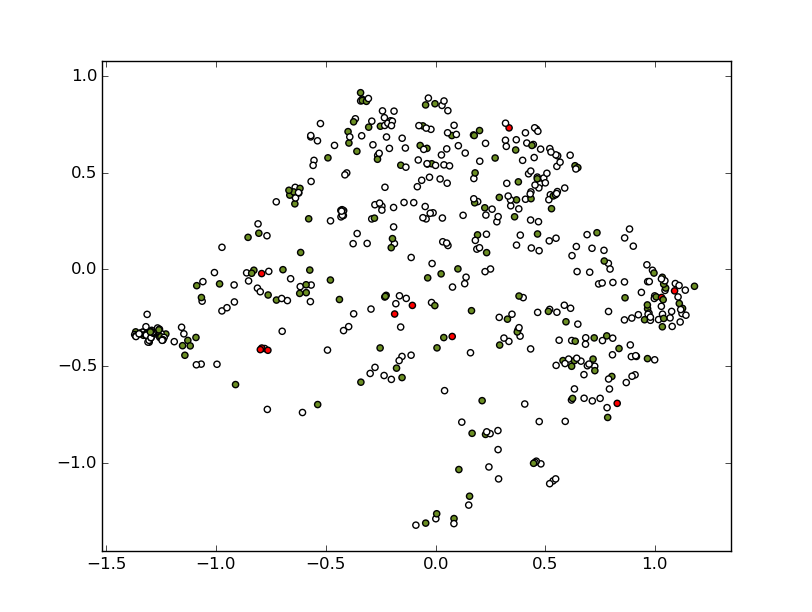
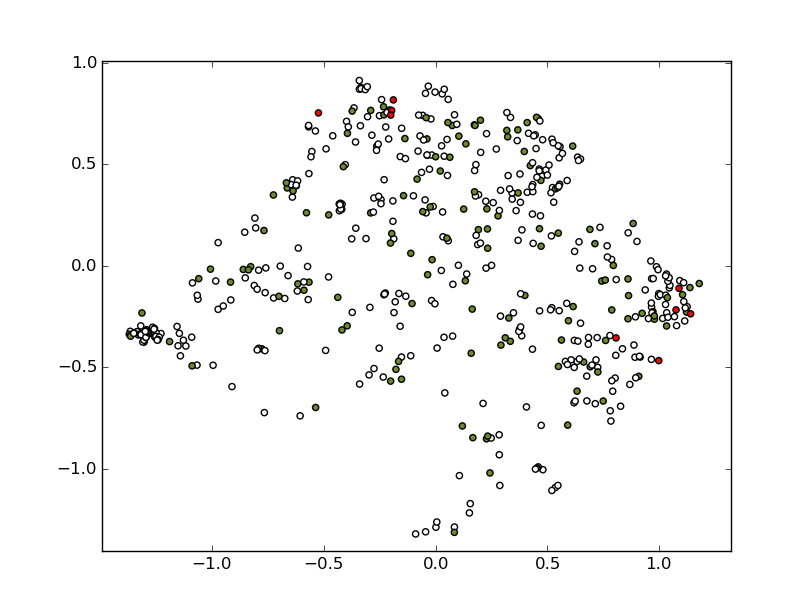
Now plotting the correct mispredictions

diff --git a/training/training.py b/training/training.py
@@ -64,20 +64,25 @@ class Knn:
     print('Split Validation training :: Done.\n')
 
 
-  def splitValidateModel(self):
+  def splitValidateModel(self, visualizePredictions = False):
     (label_vector, input_vector) = loadData(self.featureFile)
 
-    trainData, testData, trainLabels, testLabels = cross_validation.train_test_split(input_vector, 
-          label_vector, test_size=(1.0 - self.percentSplit))
+
+    indexArray = range(0, len(input_vector))
+    trainData, testData, trainLabels, expectedLabels, trainIndices, testIndices = \
+      cross_validation.train_test_split(input_vector, label_vector, indexArray, test_size=(1.0 - self.percentSplit))
 
     kNNClassifier = neighbors.KNeighborsClassifier(self.n_neighbors, weights='distance')
     kNNClassifier.fit(trainData, trainLabels) 
     predictedLabels = kNNClassifier.predict(testData)
     
     print("Classification report for classifier %s:\n%s\n"
-          % ('k-NearestNeighbour', metrics.classification_report(testLabels, predictedLabels)))
-    print("Confusion matrix:\n%s" % metrics.confusion_matrix(testLabels, predictedLabels))
+          % ('k-NearestNeighbour', metrics.classification_report(expectedLabels, predictedLabels)))
+    print("Confusion matrix:\n%s" % metrics.confusion_matrix(expectedLabels, predictedLabels))
     print('Split Validation training :: Done.\n')
+
+    if visualizePredictions:
+      self.visualizePredictedDataset(input_vector, testIndices, predictedLabels, expectedLabels)
 
 
   def crossValidateModel(self):
@@ -114,28 +119,19 @@ class Knn:
       print "Plot saved as " + fileName + ".png"
 
 
-  def visualizePredictedDataset(self, featureData = '', fileName = ''):
-    if featureData == '':
-      (label_vector, input_vector) = loadData(self.featureFile)
-    else:
-      (label_vector, input_vector) = loadData(featureData)
-    indexArray = range(0, len(input_vector))
-
-    trainData, testData, trainLabels, expectedLabels, trainIndices, testIndices = \
-      cross_validation.train_test_split(input_vector, label_vector, indexArray, test_size=(1.0 - self.percentSplit))
-    
-    kNNClassifier = neighbors.KNeighborsClassifier(self.n_neighbors, weights='distance')
-    kNNClassifier.fit(trainData, trainLabels) 
-    predictedLabels = kNNClassifier.predict(testData)
+  def visualizePredictedDataset(self, data, testIndices, predictedLabels, expectedLabels):
+    #kNNClassifier = neighbors.KNeighborsClassifier(self.n_neighbors, weights='distance')
+    #kNNClassifier.fit(trainData, trainLabels)
+    #predictedLabels = kNNClassifier.predict(testData)
 
     pca = PCA(n_components = 2)
-    X_trans = pca.fit_transform(input_vector)
+    X_trans = pca.fit_transform(data)
 
     plt.figure()
     colorArray = []
 
     print("----- Wrong predictions -----")
-    for n in range(0, len(input_vector)):
+    for n in range(0, len(data)):
       if n in testIndices:
         if predictedLabels[testIndices.index(n)] != expectedLabels[testIndices.index(n)]:
           #colorArray.append(COLOR_MAP[predictedLabels[testIndices.index(n)]])
@@ -148,11 +144,7 @@ class Knn:
         colorArray.append('white')
 
     plt.scatter(X_trans[:,0], X_trans[:,1], c = colorArray)
-    if fileName == '':
-      plt.show()
-    else:
-      plt.savefig(fileName)
-      print "Plot saved as " + fileName + ".png"
+    plt.show()
 
 
 
